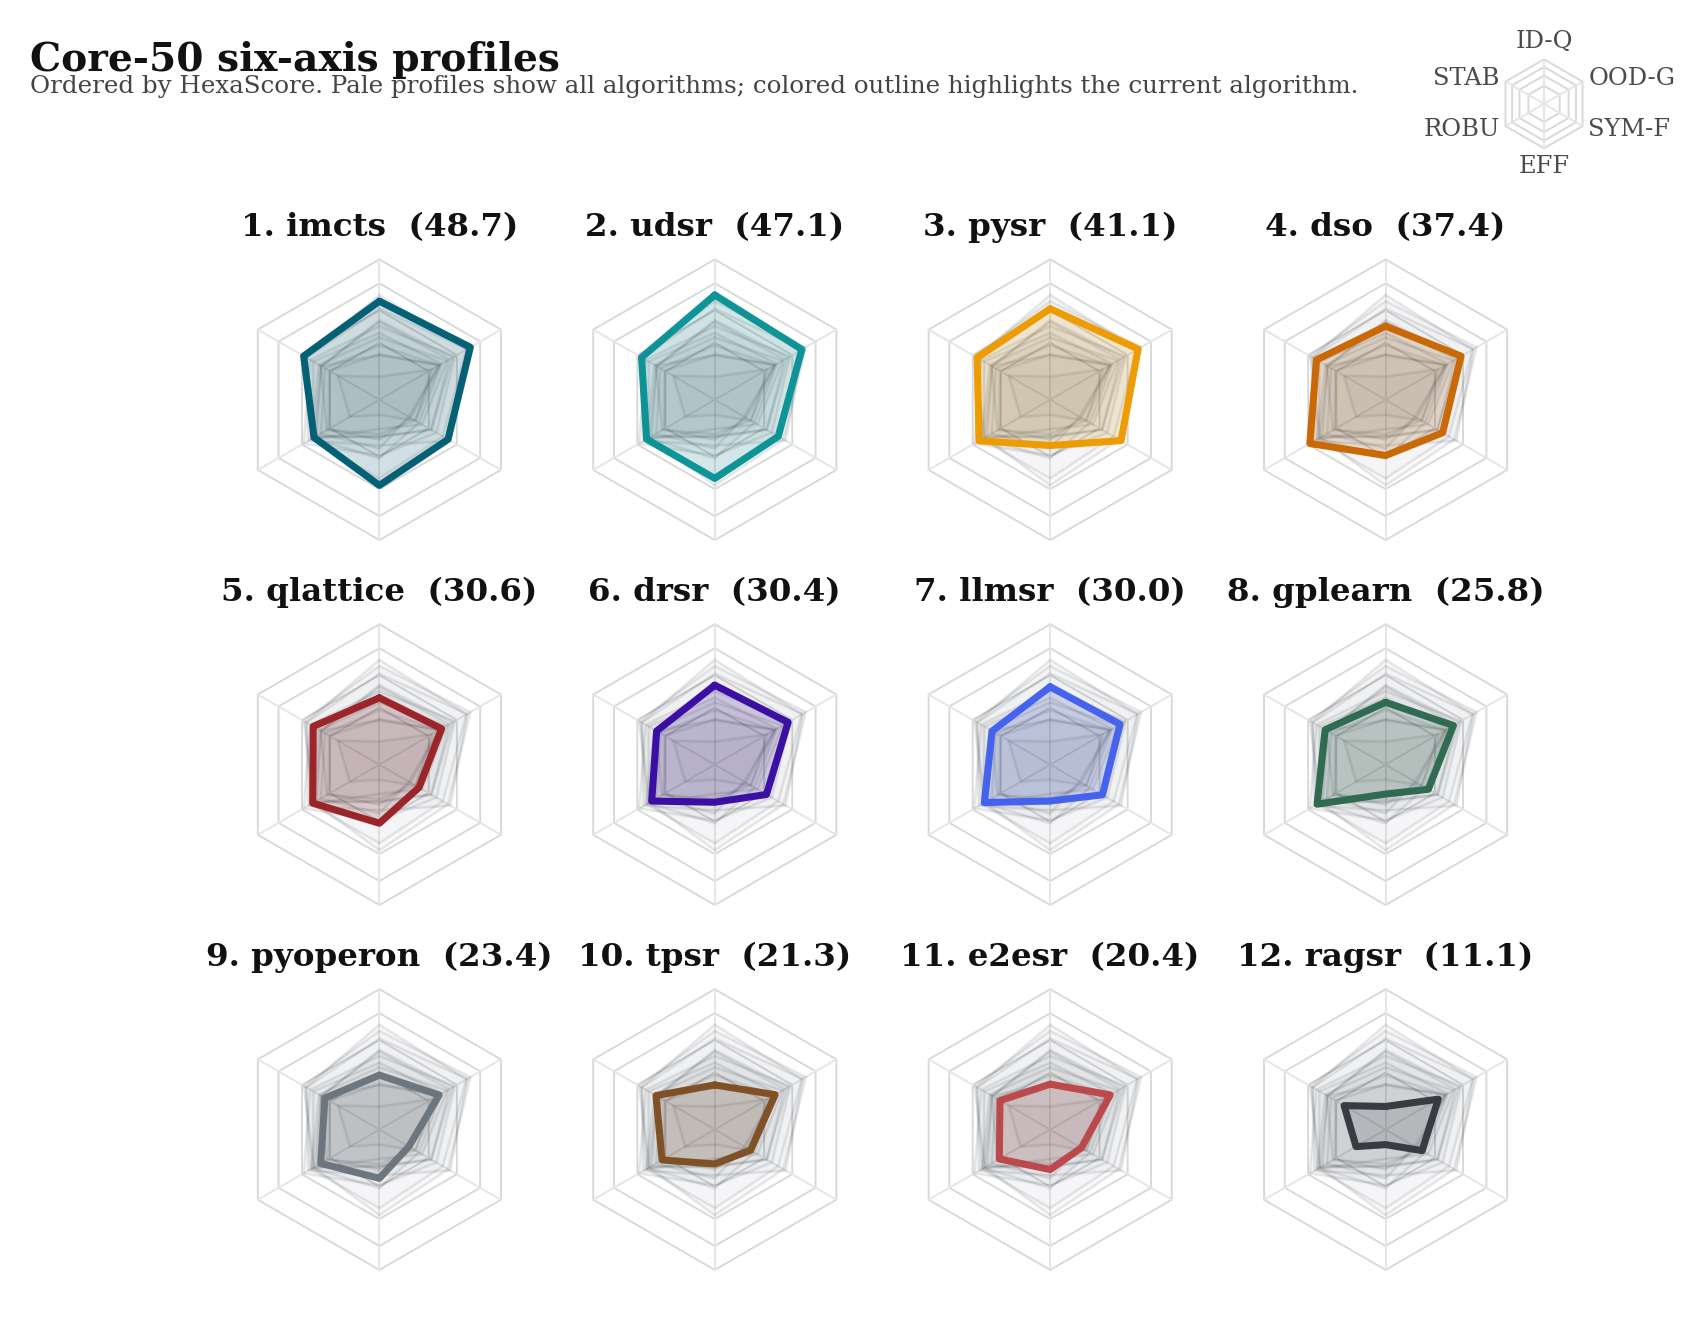
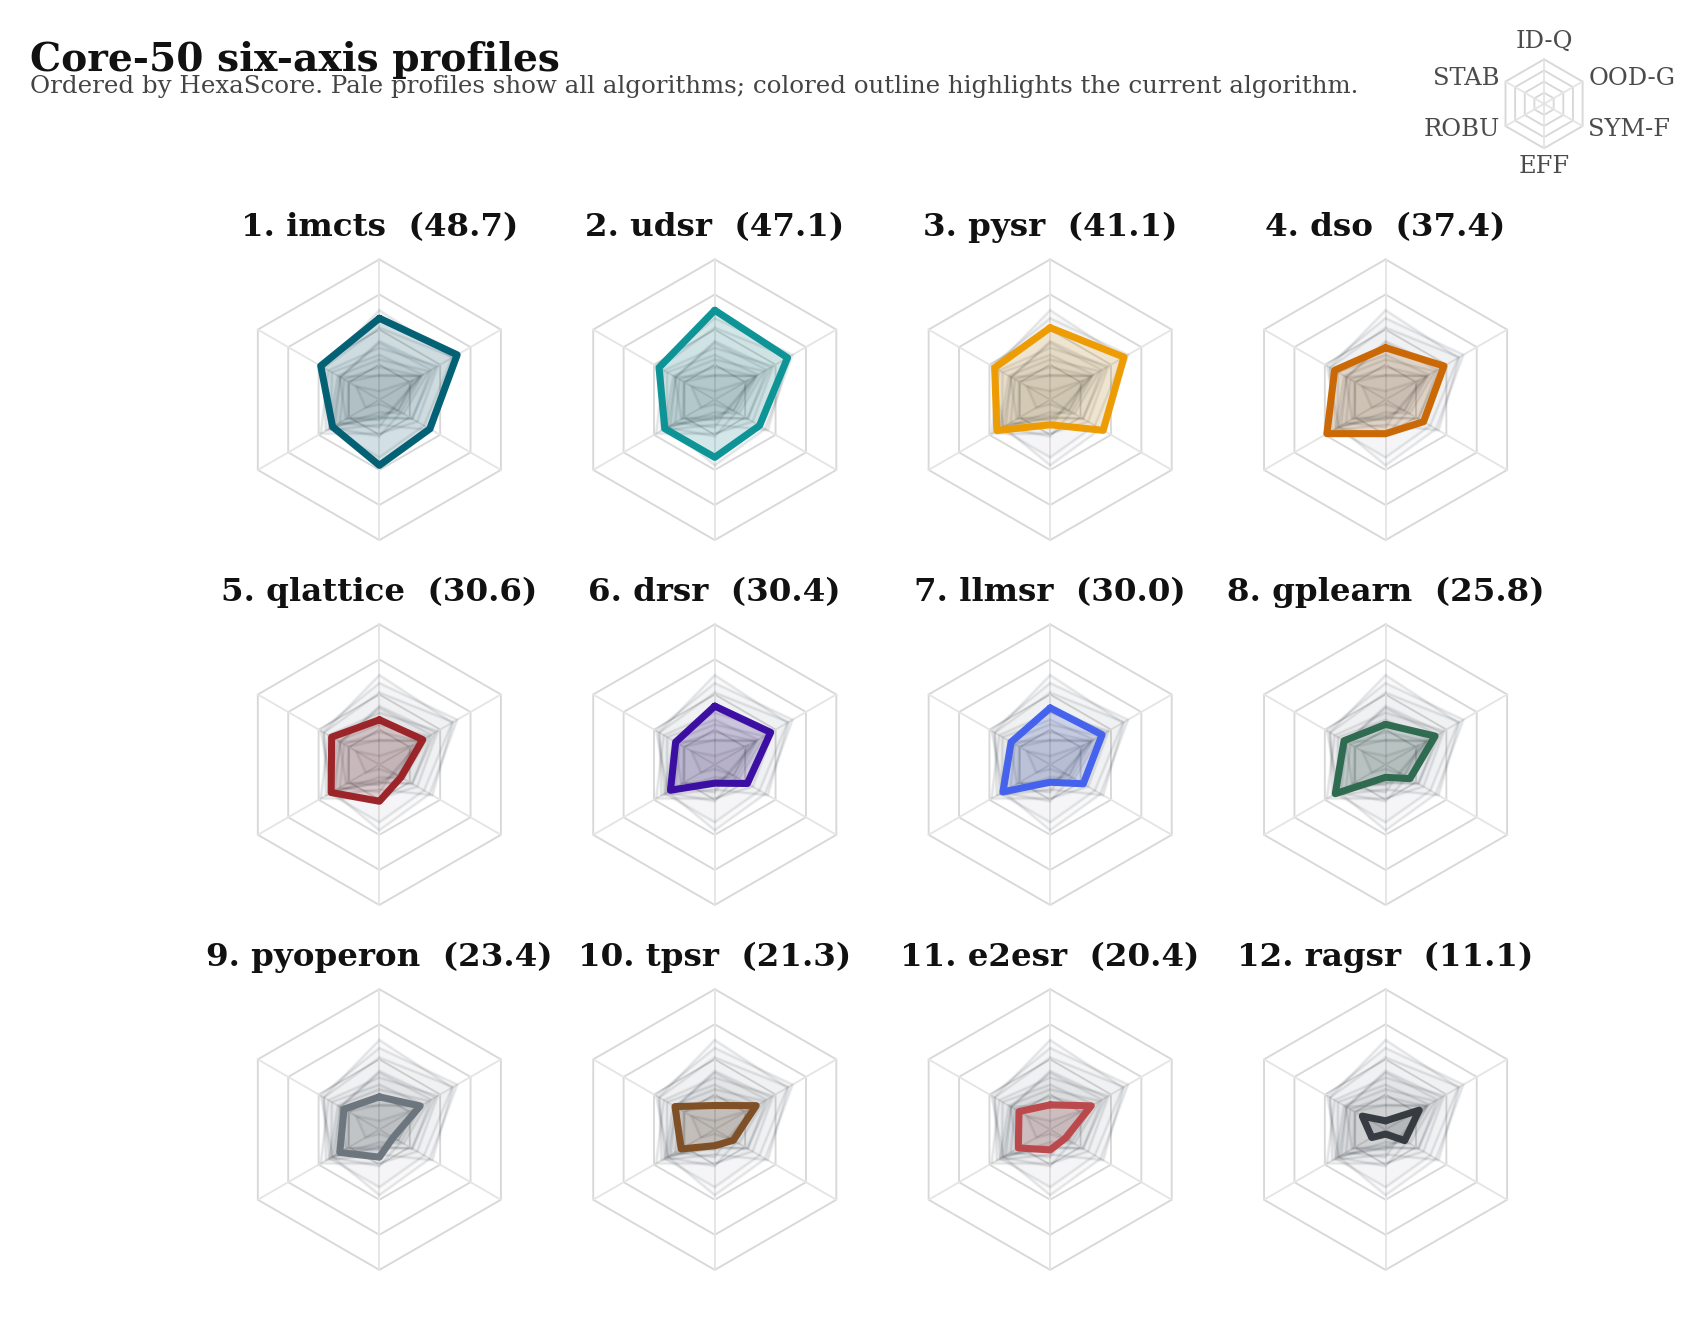
[update] 恢复六轴图真实线性尺度

diff --git a/check/plot_hexagon_small_multiples_neurips.py b/check/plot_hexagon_small_multiples_neurips.py
@@ -27,7 +27,6 @@ PAPER_IMGS = ROOT / "paper/Paper-SRInfra/imgs"
 AXES = ["ID_Q", "OOD_G", "SYM_F", "EFF", "ROB", "STAB"]
 AXIS_LABELS = ["ID-Q", "OOD-G", "SYM-F", "EFF", "ROBU", "STAB"]
 SCORE_COL = "HexaScore_formal_with_ROB"
-RADIAL_GAMMA = 0.65
 GRID_SCORE_LEVELS = [0.25, 0.50, 0.75, 1.00]
 HIGHLIGHT_FILL_ALPHA = 0.14
 HIGHLIGHT_COLORS = [
@@ -66,14 +65,8 @@ def set_neurips_style() -> None:
     )
 
 
-def scale_radius(score_fraction):
-    """把 0-1 分数映射到视觉半径；网格和 profile 必须共用同一尺度。"""
-    return np.power(np.clip(score_fraction, 0.0, 1.0), RADIAL_GAMMA)
-
-
 def polygon_points(values: np.ndarray, angles: np.ndarray) -> tuple[np.ndarray, np.ndarray]:
-    # 用单调幂缩放改善小多图可读性：中低分不会全部挤在中心。
-    radius = scale_radius(values / 100.0)
+    radius = np.clip(values / 100.0, 0.0, 1.0)
     x = radius * np.cos(angles)
     y = radius * np.sin(angles)
     return np.r_[x, x[0]], np.r_[y, y[0]]
@@ -82,8 +75,7 @@ def polygon_points(values: np.ndarray, angles: np.ndarray) -> tuple[np.ndarray, 
 def draw_grid(ax: plt.Axes, angles: np.ndarray, *, show_axis_labels: bool = False) -> None:
     grid_color = "#d8d8d8"
     spoke_color = "#e5e5e5"
-    for score_level in GRID_SCORE_LEVELS:
-        r = scale_radius(score_level)
+    for r in GRID_SCORE_LEVELS:
         x = r * np.cos(angles)
         y = r * np.sin(angles)
         ax.plot(np.r_[x, x[0]], np.r_[y, y[0]], color=grid_color, lw=0.45, zorder=0)
@@ -218,9 +210,9 @@ def render_small_multiples(
         "highlight_linewidth": 1.70,
         "highlight_fill_alpha": HIGHLIGHT_FILL_ALPHA,
         "axis_labels": "shared_once",
-        "radial_scale": f"r=(score/100)^{RADIAL_GAMMA}",
+        "radial_scale": "linear: r=score/100",
         "grid_score_levels": [int(level * 100) for level in GRID_SCORE_LEVELS],
-        "grid_radius_levels": [float(scale_radius(level)) for level in GRID_SCORE_LEVELS],
+        "grid_radius_levels": [float(level) for level in GRID_SCORE_LEVELS],
     }
     return manifest
 
